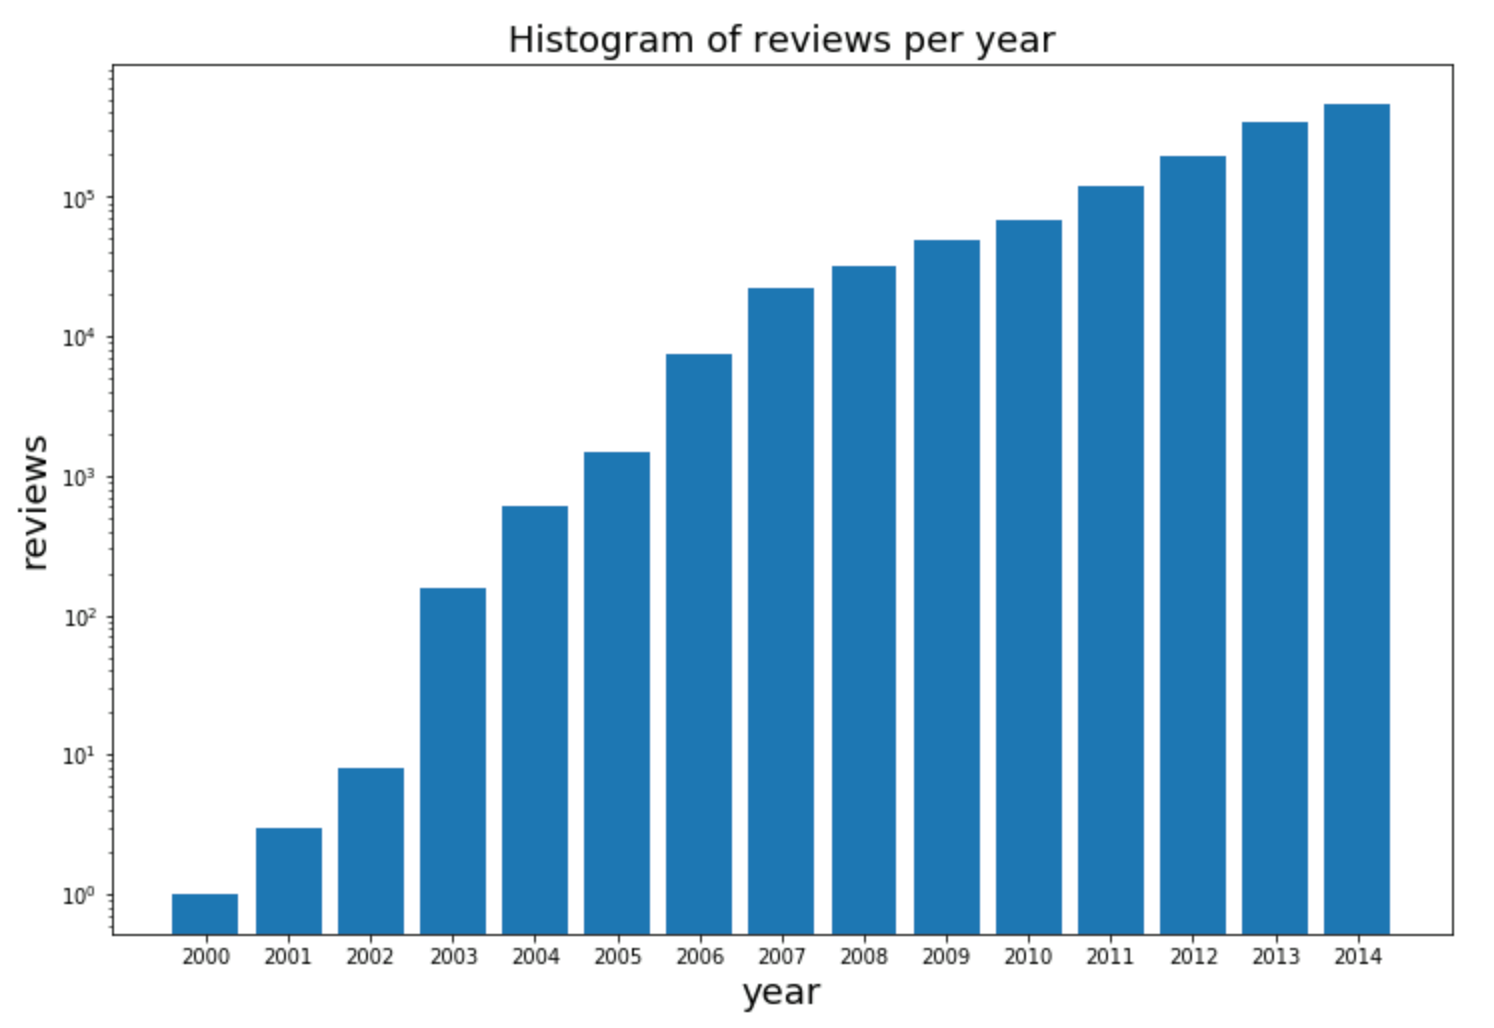
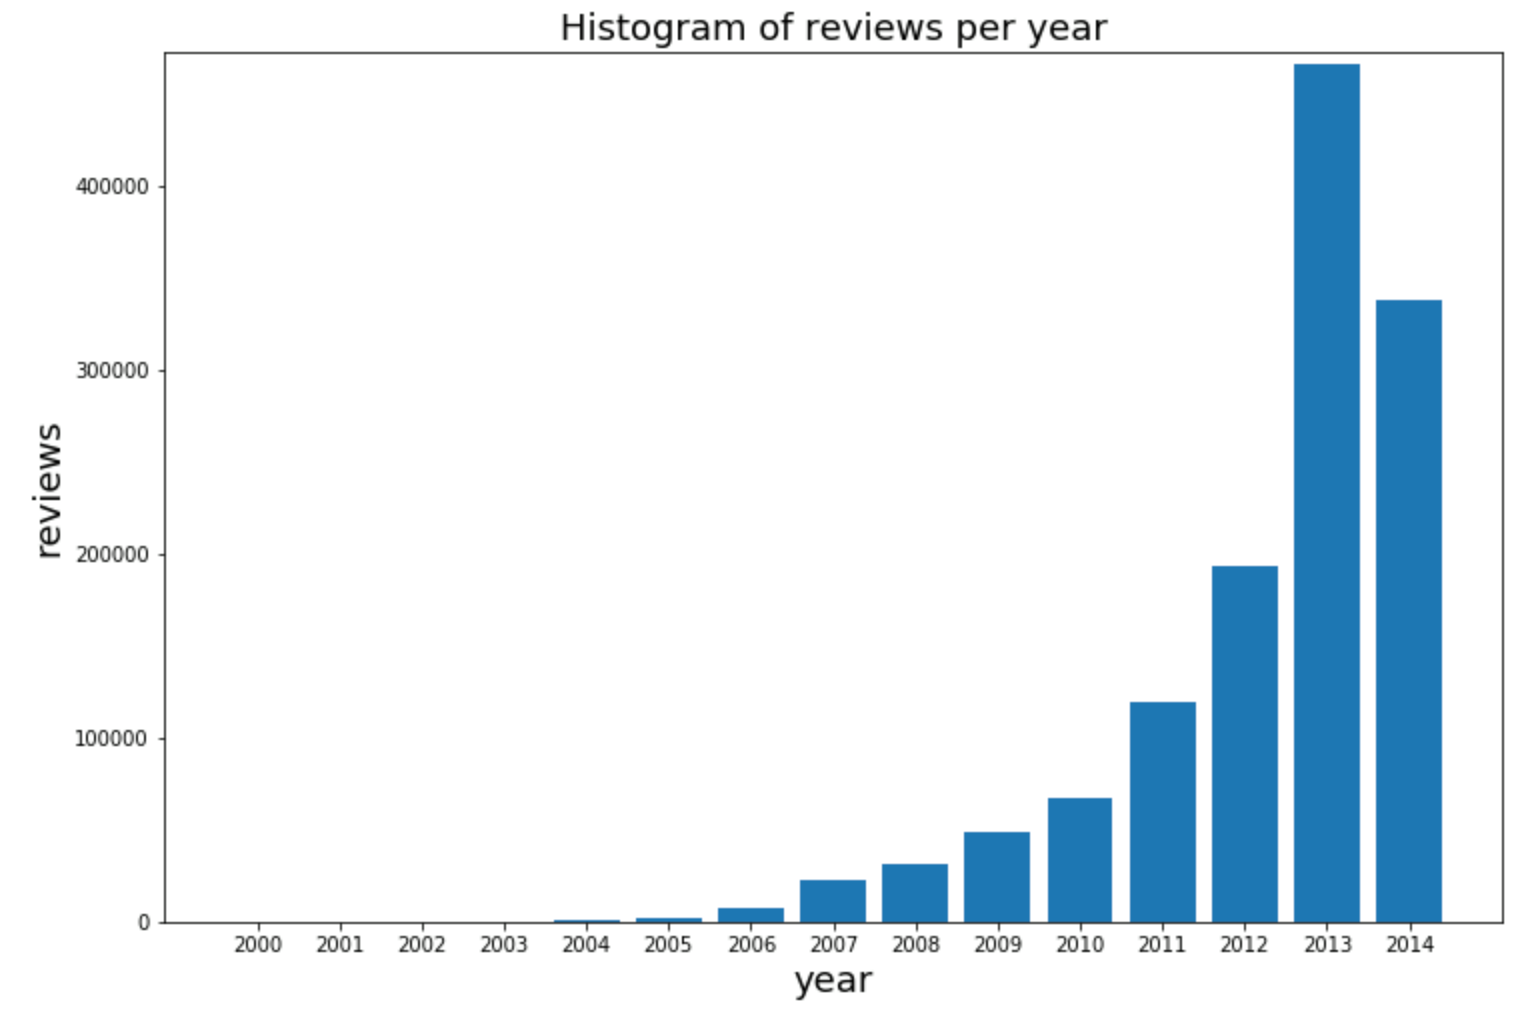
Readme update

diff --git a/README.md b/README.md
@@ -13,9 +13,11 @@ The overall goal is to enhance Amazon's user experience by considering possible 
 * Can insights from our research be used to improve Amazon's Recommendation system in regard to protecting Amazon users' health?
 
 # Dataset
-* [Amazon's Grocery and Gourmet Food product reviews](http://jmcauley.ucsd.edu/data/amazon/)
-* [Amazon's Grocery and Gourmet Food product metadata](http://jmcauley.ucsd.edu/data/amazon/) (to be able to link the reviews' asin field with an actual product name)
-* Food Recall Enforcement Reports from [FDA](https://open.fda.gov/downloads/) 
+
+We plan to get the two datasets from Julian McAuley
+* [Amazon's Grocery and Gourmet Food product reviews](http://jmcauley.ucsd.edu/data/amazon/) from Julian McAuley, UCSD (University of California, Sandiego)
+* [Amazon's Grocery and Gourmet Food product metadata](http://jmcauley.ucsd.edu/data/amazon/) (to be able to link the reviews' asin field with an actual product name) from Julian McAuley, UCSD (University of California, Sandiego)
+* Food Recall Enforcement Reports from [FDA](https://open.fda.gov/downloads/) from Food and Drug Administration (FDA)
 
 Below Table shows the number of user reviews and number of products for Amazon's Grocery and Gourmet Food:
 
@@ -28,19 +30,35 @@ Below Table shows the number of user reviews and number of products for Amazon's
 The format of the files for both metadata and reviews dataset was json. The size of each
 raw data set is presented in the Table below:
 
-| Size\Category  | Grocery and Gourmet  |
+| Size\Category  | Grocery and Gourmet Food  |
 | ------------- | ------------- |
 |Reviews  | 733.5 MB   |
 | Products  | 196.8 MB  |
 
-![Screenshot](histogram_year.png)
 
+
+The data collected is very huge spanning from 2000-2014. Therefore first the data was
+analyzed for number of reviews for each year in order to choose the years for parsing the
+data set for testing and validating phase for the recommender system.
 
 Below is an example of Amazon product Review parser(year wise) code:
 ![Screenshot](Review_Parser.png)
 
+
+![Screenshot](histogram_year.png)
+
+
+From the above chart it clearly visible that larger reviews are available only in few years,
+that is in the case:
+* Grocery and Gourmet Food- (2012 - 192903), (2013 - 466834), (2014 - 338303)
+
 # A list of internal milestones up until project milestone 2
-* Find an Natural Language Processing (NLP) algorithm to detect possibly harmful products by analyzing product reviews.
+* Explore various Natural Language Processing (NLP) algorithms to detect and classify possibly harmful products by analyzing user product reviews.
+
+* Explore various Graph mining algorithms to detect and classify possibly harmful products by analyzing user product reviews.
+
+* Convert data to snap formart
+
 * Compare time points of health related negative reviews and FDA product recalls.
 
 # Questions for TAa
